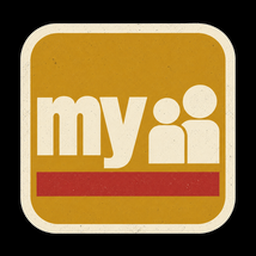
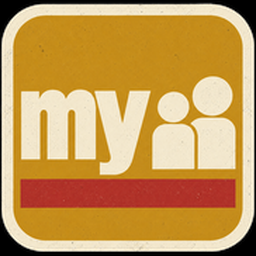
Edge-to-edge social stickers with cache-busting v2 assets
Fill each PNG so frames match exactly; point HTML at *-v2.png
so Pages clients don't keep the old unequal cached files.

diff --git a/index.html b/index.html
@@ -273,14 +273,14 @@
                   >
                     <img
                       class="throwback__img throwback__img--dark"
-                      src="/social/myspace-dark.png"
+                      src="/social/myspace-dark-v2.png"
                       width="256"
                       height="256"
                       alt="MySpace — Harry Mowtown on Apple Music"
                     />
                     <img
                       class="throwback__img throwback__img--light"
-                      src="/social/myspace-light.png"
+                      src="/social/myspace-light-v2.png"
                       width="256"
                       height="256"
                       alt="MySpace — Harry Mowtown on Apple Music"
@@ -296,14 +296,14 @@
                   >
                     <img
                       class="throwback__img throwback__img--dark"
-                      src="/social/tumblr-dark.png"
+                      src="/social/tumblr-dark-v2.png"
                       width="256"
                       height="256"
                       alt="Tumblr — Substack"
                     />
                     <img
                       class="throwback__img throwback__img--light"
-                      src="/social/tumblr-light.png"
+                      src="/social/tumblr-light-v2.png"
                       width="256"
                       height="256"
                       alt="Tumblr — Substack"
@@ -319,14 +319,14 @@
                   >
                     <img
                       class="throwback__img throwback__img--dark"
-                      src="/social/bebo-dark.png"
+                      src="/social/bebo-dark-v2.png"
                       width="256"
                       height="256"
                       alt="Bebo — LinkedIn"
                     />
                     <img
                       class="throwback__img throwback__img--light"
-                      src="/social/bebo-light.png"
+                      src="/social/bebo-light-v2.png"
                       width="256"
                       height="256"
                       alt="Bebo — LinkedIn"

diff --git a/src/style.css b/src/style.css
@@ -450,6 +450,7 @@ html[data-theme="dark"] .theme-toggle__thumb {
   display: block;
   width: 3.85rem;
   height: 3.85rem;
+  flex: 0 0 3.85rem;
   text-decoration: none;
   transition: transform 140ms var(--ease-print), filter 140ms var(--ease-print);
 }
